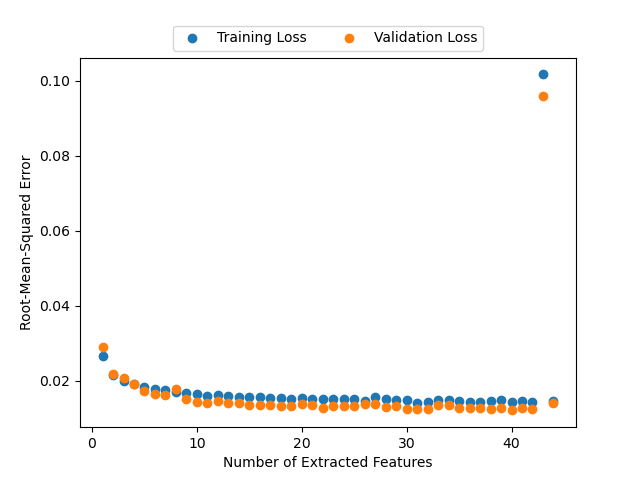
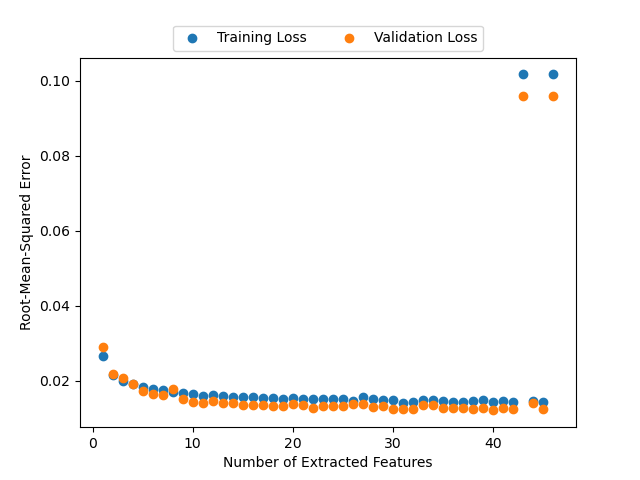
Code

diff --git a/original_images.py b/original_images.py
@@ -14,7 +14,7 @@ import cv2
 encoding_dim = 44
 
 # set the number of clusters
-n_clusters = 2
+n_clusters = 4
 
 
 # load the extracted features
@@ -152,50 +152,50 @@ df["Cluster"] = clusters
 
 
 # separate the dataframe into groups based on their cluster
-group_1 = df.loc[df["Cluster"] == 0]
-group_2 = df.loc[df["Cluster"] == 1]
-
-# get a list of 9 random indices for each group
-group_1_random_index = random.sample(range(0, len(group_1)), 25)
-group_2_random_index = random.sample(range(0, len(group_2)), 25)
-
-# get the galaxy id of each of the random indices for each group
-group_1_random = group_1["GalaxyID"].iloc[group_1_random_index].tolist()
-group_2_random = group_2["GalaxyID"].iloc[group_2_random_index].tolist()
-
-print(group_1_random)
-print(group_2_random)
-
-# create the figure for the plot
-fig = plt.figure(constrained_layout=False, figsize=(20, 10))
-
-# create the subfigures for the plot (each group)
-gs1 = fig.add_gridspec(nrows=5, ncols=5, left=0.05, right=0.45, wspace=0.05, hspace=0.05)
-gs2 = fig.add_gridspec(nrows=5, ncols=5, left=0.55, right=0.95, wspace=0.05, hspace=0.05)
-
-count = 0
-
-for i in range(0, 5):
-    for j in range(0, 5):
-
-        g1_ax = fig.add_subplot(gs1[i, j])
-        image = mpimg.imread("/cosma7/data/Eagle/web-storage/RefL0100N1504_Subhalo/galface_" + str(group_2_random[count]) + ".png")
-        g1_ax.imshow(image)
-        g1_ax.get_xaxis().set_visible(False)
-        g1_ax.get_yaxis().set_visible(False)
-
-        g2_ax = fig.add_subplot(gs2[i, j])
-        image = mpimg.imread("/cosma7/data/Eagle/web-storage/RefL0100N1504_Subhalo/galface_" + str(group_1_random[count]) + ".png")
-        g2_ax.imshow(image)
-        g2_ax.get_xaxis().set_visible(False)
-        g2_ax.get_yaxis().set_visible(False)
-
-        # set group title for middle plot of each group
-        if i == 0 and j == 2:
-            g1_ax.set_title(("Group 1 (" + str(np.array(group_2).shape[0]) + ")"), fontsize=25, pad=20)
-            g2_ax.set_title(("Group 2 (" + str(np.array(group_1).shape[0]) + ")"), fontsize=25, pad=20)
-
-        count += 1
+# group_1 = df.loc[df["Cluster"] == 0]
+# group_2 = df.loc[df["Cluster"] == 1]
+#
+# # get a list of 9 random indices for each group
+# group_1_random_index = random.sample(range(0, len(group_1)), 25)
+# group_2_random_index = random.sample(range(0, len(group_2)), 25)
+#
+# # get the galaxy id of each of the random indices for each group
+# group_1_random = group_1["GalaxyID"].iloc[group_1_random_index].tolist()
+# group_2_random = group_2["GalaxyID"].iloc[group_2_random_index].tolist()
+#
+# print(group_1_random)
+# print(group_2_random)
+#
+# # create the figure for the plot
+# fig = plt.figure(constrained_layout=False, figsize=(20, 10))
+#
+# # create the subfigures for the plot (each group)
+# gs1 = fig.add_gridspec(nrows=5, ncols=5, left=0.05, right=0.45, wspace=0.05, hspace=0.05)
+# gs2 = fig.add_gridspec(nrows=5, ncols=5, left=0.55, right=0.95, wspace=0.05, hspace=0.05)
+#
+# count = 0
+#
+# for i in range(0, 5):
+#     for j in range(0, 5):
+#
+#         g1_ax = fig.add_subplot(gs1[i, j])
+#         image = mpimg.imread("/cosma7/data/Eagle/web-storage/RefL0100N1504_Subhalo/galface_" + str(group_2_random[count]) + ".png")
+#         g1_ax.imshow(image)
+#         g1_ax.get_xaxis().set_visible(False)
+#         g1_ax.get_yaxis().set_visible(False)
+#
+#         g2_ax = fig.add_subplot(gs2[i, j])
+#         image = mpimg.imread("/cosma7/data/Eagle/web-storage/RefL0100N1504_Subhalo/galface_" + str(group_1_random[count]) + ".png")
+#         g2_ax.imshow(image)
+#         g2_ax.get_xaxis().set_visible(False)
+#         g2_ax.get_yaxis().set_visible(False)
+#
+#         # set group title for middle plot of each group
+#         if i == 0 and j == 2:
+#             g1_ax.set_title(("Group 1 (" + str(np.array(group_2).shape[0]) + ")"), fontsize=25, pad=20)
+#             g2_ax.set_title(("Group 2 (" + str(np.array(group_1).shape[0]) + ")"), fontsize=25, pad=20)
+#
+#         count += 1
 
 
 

diff --git a/optimal_features.py b/optimal_features.py
@@ -49,14 +49,14 @@ physical_properties.drop(physical_properties.tail(200).index, inplace=True)
 loss = []
 val_loss = []
 
-for i in range(1, 45):
+for i in range(1, 47):
     feature_loss = np.load("Loss/" + str(i) + "_feature_loss.npy")
 
     loss.append(feature_loss[0])
     val_loss.append(feature_loss[1])
 
-plt.scatter(x=range(1, 45), y=loss, label="Training Loss")
-plt.scatter(x=range(1, 45), y=val_loss, label="Validation Loss")
+plt.scatter(x=range(1, 47), y=loss, label="Training Loss")
+plt.scatter(x=range(1, 47), y=val_loss, label="Validation Loss")
 
 # plt.plot(range(17, 41), loss)
 # plt.plot(range(17, 41), val_loss)
@@ -80,7 +80,7 @@ relevant_feature_number = []
 relevant_feature_ratio = []
 
 
-for encoding_dim in range(1, 45):
+for encoding_dim in range(1, 47):
 
     extracted_features = np.load("Features/" + str(encoding_dim) + "_features.npy")
 
@@ -111,7 +111,7 @@ for encoding_dim in range(1, 45):
     relevant_feature_ratio.append(relevant_features/encoding_dim)
 
 
-plt.scatter(x=range(1, 45), y=relevant_feature_number)
+plt.scatter(x=range(1, 47), y=relevant_feature_number)
 
 plt.xlabel("Total Number of Extracted Features")
 plt.ylabel("Number of Meaningful Extracted Features")

diff --git a/property_comparison.py b/property_comparison.py
@@ -488,7 +488,7 @@ fig, axs = plt.subplots(2, 2, figsize=(20, 10))
 # # b2.set(xlabel=None, ylabel=None, title="Sersic Index", xticklabels=["Group 2", "Group 1"])
 # b2.set(xlabel=None, ylabel=None, title="Sersic Index")
 
-sns.scatterplot(ax=axs[0, 0], x=extracted_features_switch[19], y=extracted_features_switch[42], alpha=0.5, linewidth=0, hue=df["Cluster"], palette="pastel", legend=False, hue_order=order)
+# sns.scatterplot(ax=axs[0, 0], x=extracted_features_switch[19], y=extracted_features_switch[42], alpha=0.5, linewidth=0, hue=df["Cluster"], palette="pastel", legend=False, hue_order=order)
 
 
 
